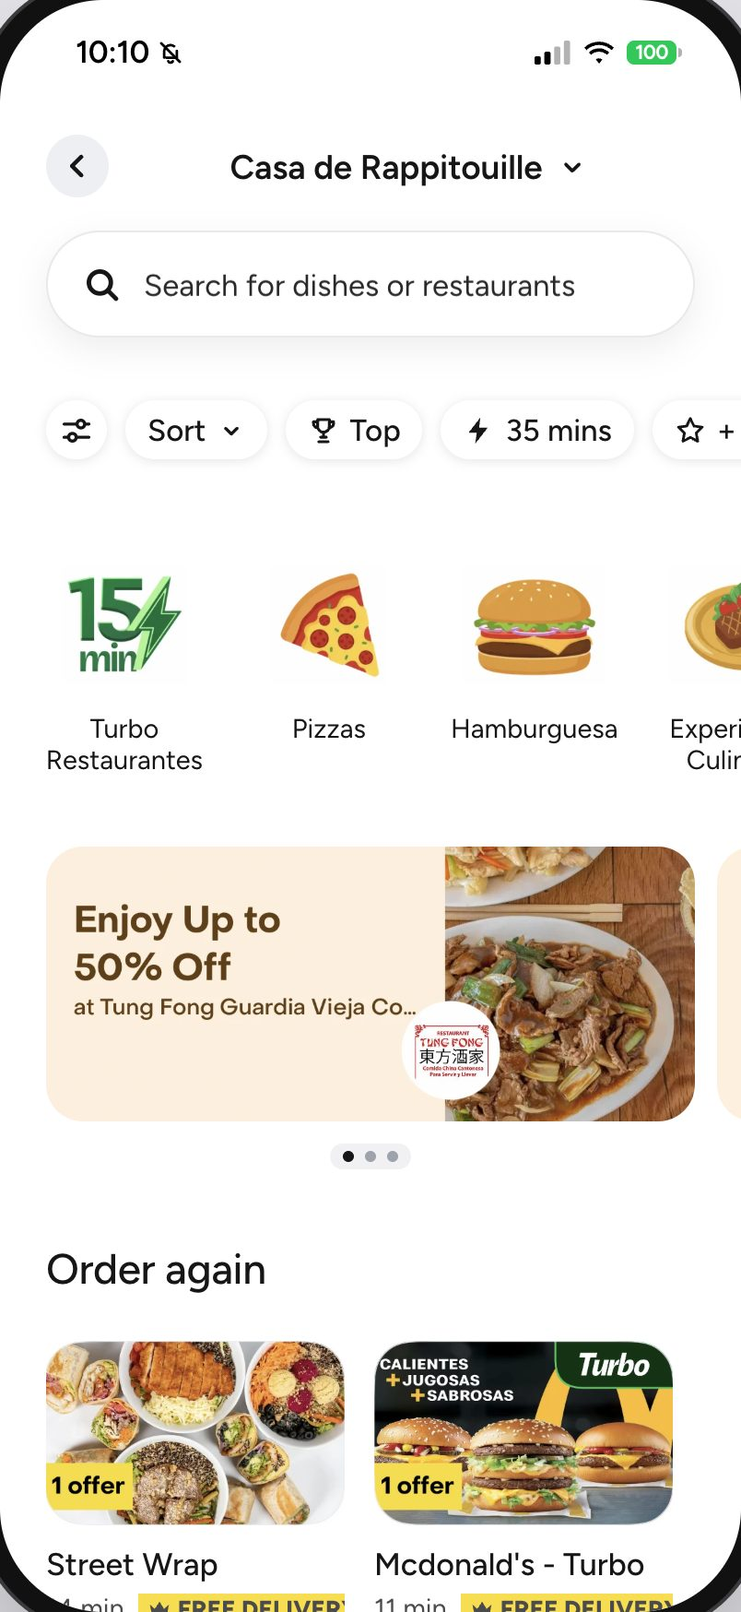
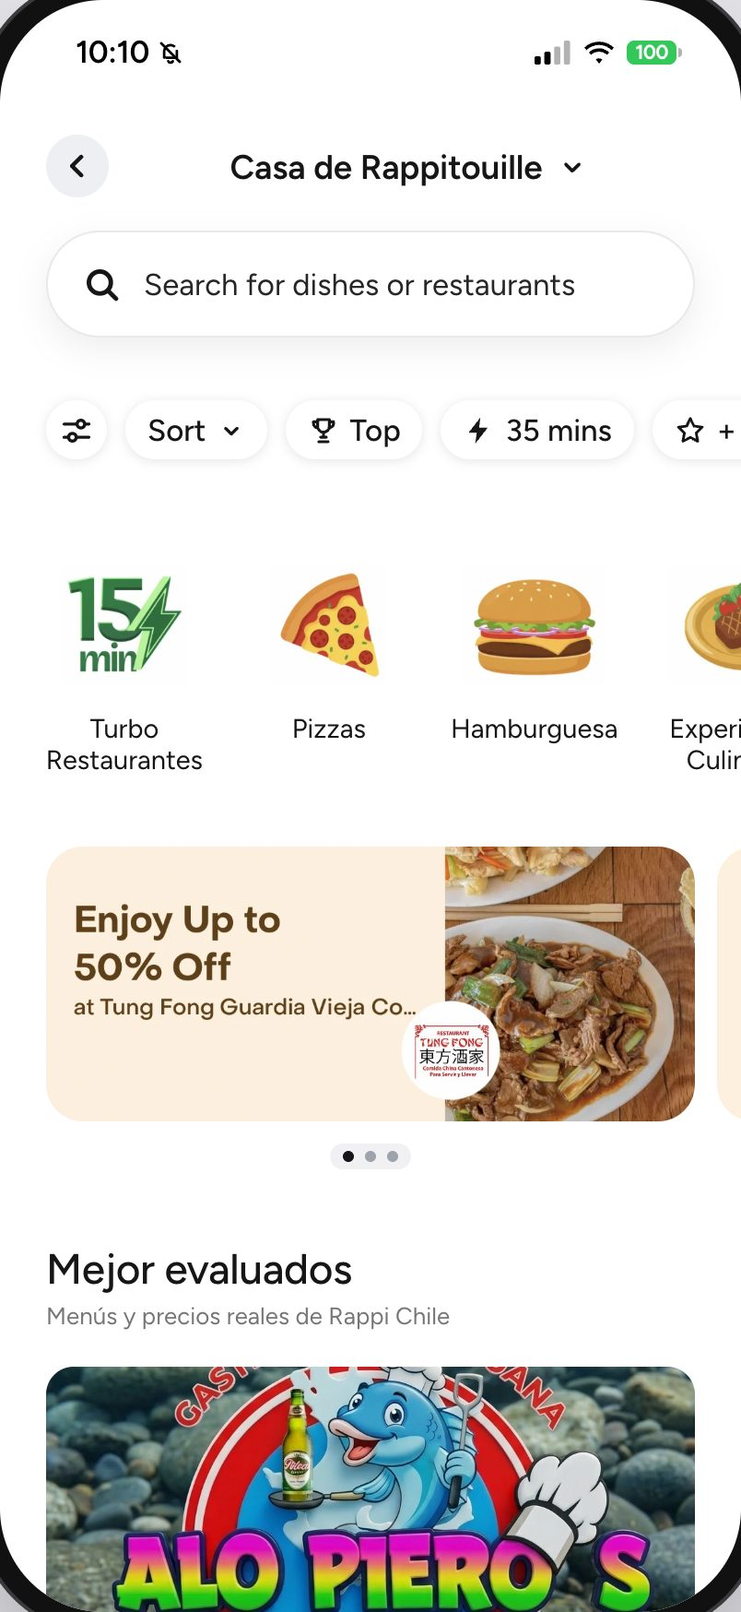
docs: el catálogo real llega a las pantallas
- mvp-check suma la compra: Home → Grocery → primera tienda → agregar → carrito → pagar, y comprueba en rappi_ia_test (solo lectura) que haya un pedido `prototype` con productos sembrados. Termina con «MVP check: 3 de 3 bien».
- screenshots.mjs espera a que lleguen tiendas, productos y restaurantes antes de capturar y compra un producto de las bajas de precio reales (con +18 si hay).
- Capturas regeneradas solo donde cambiaron (Restaurants, Turbo, Deals, Favorites, Grocery, Liquor, checkout, seguimiento y entregado).
- Docs: de dónde salen ahora las pantallas, el buscador local hasta la etapa 3, Mascotas fuera y la fila de decisiones del 10-10-2026; cuentas de tests al día (prototipo 575, rappi-ia 1002).

diff --git a/prototipo-app/README.md b/prototipo-app/README.md
@@ -8,7 +8,7 @@ Hecho con Vite + React 19. **Necesita la API de [`rappi-ia`](../rappi-ia/)**: si
 
 ![Modo demo: la misma app en el prototipo final y en «Rappi hoy»](docs/screenshots/00-modo-demo.jpg)
 
-*Salvo que se indique lo contrario, las capturas de este README son anteriores al MVP conectado: se tomaron en modo local (sin API) y sin los menús reales del scraper. `npm run screenshots` ahora necesita el MVP corriendo.*
+*Las capturas de Restaurants, Turbo, Deals, Favorites, Grocery, Liquor y de la compra (checkout, seguimiento y entregado) se tomaron el 10-10-2026 con el MVP corriendo y el catálogo real; las demás son anteriores al MVP conectado (modo local, sin API). `npm run screenshots` necesita el MVP corriendo y, como paga una compra, deja un pedido y sus eventos (`source = 'prototype'`) en la base.*
 
 ## Cómo correrlo
 
@@ -17,7 +17,7 @@ Requiere Node 22.22+ o 24.15+ (ver `.nvmrc` en la raíz). Como la app no abre si
 ```bash
 make mvp              # API :8000, app http://localhost:5174 y panel :5175; Ctrl-C detiene los tres
 make mvp LAN=1        # abre la API y la app a la red local, para el iPhone (misma red wifi o su hotspot)
-make mvp-check        # recorre la app con Chrome contra un catálogo de prueba inventado, sin tocar la base real
+make mvp-check        # recorre la app con Chrome (Home, una compra en el Súper de prueba, API caída) contra un catálogo inventado, sin tocar la base real
 ```
 
 Requisitos y qué hacer si falla algo: [docs/instalacion.md](../docs/instalacion.md#5-el-mvp). Para correr solo la app, con la API ya levantada por su cuenta (`cd rappi-ia && make serve`):
@@ -35,6 +35,7 @@ En el iPhone, desde Safari: **Compartir → Agregar a pantalla de inicio**. Se a
 
 La API (puerto 8000) carga los modelos antes de aceptar peticiones: `make mvp` espera a que responda y, si la app se abrió antes, «Reintentar» vuelve a probar. Con ella, Mochi:
 
+- da las **pantallas de catálogo** (ver «De dónde salen las pantallas»);
 - busca en el **catálogo real** con búsqueda híbrida por vertical, con precios vigentes;
 - sugiere un complemento **de otra tienda** en un bloque aparte;
 - arma la fila **"Para ti"** del inicio con lo que aprendió de ti (productos reales de otro vertical, con aviso +18 si corresponde);
@@ -60,7 +61,7 @@ Si la API se cae con la app ya abierta, las respuestas de Mochi todavía caen a 
 | `npm run screenshots` | Regenera las capturas de este README; necesita el MVP corriendo (`make mvp`) y usa el Chrome instalado |
 | `./scripts/make-icons.sh` | Regenera los íconos de pantalla de inicio desde `scripts/icon.svg` |
 
-Tests: 452 (Vitest, 10-10-2026). CI en GitHub Actions: lint, tests y build.
+Tests: 575 (Vitest, 10-10-2026). CI en GitHub Actions: lint, tests y build.
 
 **Accesibilidad:** el buscador con Mochi y las hojas inferiores se usan con teclado y VoiceOver (el foco entra al abrir, Escape cierra, Tab no se sale y el foco vuelve al cerrar), cada respuesta de Mochi se anuncia completa al lector de pantalla y las áreas táctiles miden al menos 40 px.
 
@@ -145,8 +146,8 @@ También:
 
 - **Hoja de producto:** al tocar un producto se abre una hoja con la cantidad, notas para la tienda y el total, y desde ahí se puede ir a la tienda.
 - **Mis pedidos** (en Account): cada pedido hecho en el prototipo abre su seguimiento, en curso o entregado; el carro, los favoritos, la dirección y Loyalty se guardan en el navegador y sobreviven a una recarga.
-- **Turbo** con productos y categorías (Frescos, Despensa, Picoteo) que se agregan al carro, además de las pestañas Favorites, Offers y Categories.
-- **Menús reales** de los restaurantes, con pestañas por sección: salen de la API (`/catalog`), el catálogo que descarga el scraper.
+- **Turbo** con los pasillos de su tienda con más productos vigentes (pestañas arriba y en Categories), con sus productos y «Ver más», que se agregan al carro, además de las pestañas Favorites y Offers.
+- **Menús reales** de los restaurantes, con pestañas por sección: salen de la API (`/catalog`), el catálogo que descarga el scraper. La portada es la foto de un plato popular: la base no guarda los logos de los restaurantes.
 - **Loyalty**, con un programa de fidelización vinculable.
 - **Si algo falla:** una pantalla con error muestra «Algo salió mal» y «Volver al inicio» sin cerrar la app, y una imagen que no carga muestra un respaldo neutro.
 
@@ -156,7 +157,7 @@ También:
 
 ## Pantallas replicadas de Rappi
 
-Calcadas de las capturas del iPhone, en modo "Rappi hoy" (sin agregados de la propuesta).
+Calcadas de las capturas del iPhone, en modo "Rappi hoy" (sin agregados de la propuesta). El diseño es de las capturas; las tiendas, los productos y los precios son del catálogo real (ver «De dónde salen las pantallas»).
 
 | Restaurants | Turbo | Deals | Favorites |
 |:---:|:---:|:---:|:---:|
@@ -166,21 +167,40 @@ Calcadas de las capturas del iPhone, en modo "Rappi hoy" (sin agregados de la pr
 |:---:|:---:|:---:|:---:|
 | <img src="docs/screenshots/14-account.jpg" width="190" alt="Account"> | <img src="docs/screenshots/15-grocery.jpg" width="190" alt="Grocery"> | <img src="docs/screenshots/16-liquor.jpg" width="190" alt="Liquor"> | <img src="docs/screenshots/17-rappitravel.jpg" width="190" alt="RappiTravel"> |
 
-Además: Pharmacy, Retail, Express, Pet, Chocolates, Loyalty, buscador, página de tienda y carrito.
+Además: Pharmacy, Retail, Express, Chocolates, Loyalty, buscador, página de tienda y carrito. Pet (Mascotas) salió: la base no tiene esa vertical.
+
+## De dónde salen las pantallas
+
+Las pantallas de catálogo leen la API (`/catalog`, `src/api/catalog.js`) y la app solo pone el diseño:
+
+| Pantalla | Qué viene de la API |
+|---|---|
+| Verticales (Grocery, Pharmacy, Retail, Liquor, Express, Chocolates) | Las tiendas (una tarjeta por formato) y «Bajaron de precio» |
+| Tienda | Sus pasillos, de a una página de productos (24, con «Ver más») y el precio vigente de cada uno |
+| Restaurante | Su menú con precios; la portada es la foto de un plato popular |
+| Turbo | Los pasillos de la tienda Turbo con más productos vigentes y sus productos |
+| Deals (Offers) | «Bajaron de precio» por vertical (se excluyen las bajas de más de 60 %: en la base real eran graneles, precio por kilo contra precio por unidad) y «Mejor evaluados» |
+| Favorites y Home | «Los mejores» y las listas de la Home (restaurantes rápidos, «Cerca de ti», «Mejor evaluados») |
+
+- **Un producto muestra el precio y la tienda de su oferta vigente más barata entre las tiendas que se pueden abrir**, para que el precio y la tienda nunca se contradigan. Si ninguna tienda abrible lo vende, no ofrece «Ver tienda».
+- **Sin «Envío más barato»:** el costo de envío es $0 en el 91 % de la base, casi seguro «sin dato», así que la Home y Deals muestran «Mejor evaluados» y un envío de $0 no se presenta como gratis.
+- **Si la API falla** en una pantalla, esa pantalla muestra «Sin conexión» con «Reintentar» y el resto de la app sigue usable; una tienda que no está en la base muestra «Esta tienda no está en el catálogo».
+- **Sigue local hasta la etapa 3:** el buscador y el cerebro local de Mochi (`src/data/catalog.js`, con los datos transcritos de las capturas). Lo que abren y no está en la base muestra «Esta tienda no está en el catálogo».
 
 ## Qué es real y qué es simulado
 
-- **Real:** las pantallas (recortes de las capturas), los precios y productos que se ven en ellas, los menús del scraper (si se exportan), el carrito, los pedidos y el historial del navegador.
+- **Real:** las tiendas, productos, precios, menús y ofertas que muestran las pantallas (vienen de la API, que lee la base que descarga el scraper), el carrito, los pedidos y el historial del navegador.
   - **De la API** vienen también la búsqueda y los productos y precios que muestra Mochi.
+- **De las capturas:** el diseño (títulos, filas de categorías, banners, íconos). No son catálogo: no apuntan a ninguna tienda ni producto.
 - **Simulado:** el pago y el seguimiento (el pedido «llega» a los 20 s), y el progreso del juego (solo en el navegador).
 - **Privacidad:** el id de usuario es seudónimo (`proto-…`, guardado en este navegador). El carro, los favoritos, la dirección, Loyalty y los pedidos también se guardan solo en este navegador. "Olvidar" borra lo aprendido también en la API. En modo "Rappi hoy" no se aprende.
-- **Supuestos:** textos cortados en el borde de las capturas, algunos ratings y tiempos de entrega; están marcados como "supuesto" en los archivos `data.js`.
+- **Supuestos:** textos cortados en el borde de las capturas, marcados como "supuesto" en los archivos `data.js`. Lo que la API no sabe (tiempo de entrega de un producto, nota, costo de envío: un $0 es un dato que falta, no «envío gratis») no se muestra.
 
 ## Estructura
 
 ```text
 src/
-├── api/            Cliente de la API de rappi-ia (chat, "Para ti", pedidos, eventos), con tiempo límite y errores tipados; fixtures/ guarda las respuestas de ejemplo que escribe el backend (`make contract` en rappi-ia)
+├── api/            Cliente de la API de rappi-ia (catálogo, chat, "Para ti", pedidos, eventos), con tiempo límite y errores tipados; fixtures/ guarda las respuestas de ejemplo que escribe el backend (`make contract` en rappi-ia)
 ├── assistant/      Mochi local: temas, respuestas y recomendaciones (lógica pura, con tests)
 ├── assets/         Recortes de las capturas
 ├── game/           Lógica del juego de verticales: tarjetas de conocimiento, desafíos, XP, niveles, pasaporte (lógica pura, con tests)
@@ -192,5 +212,5 @@ src/
 └── styles/         Tokens de diseño y estilos globales
 docs/screenshots/   Capturas de este README
 public/             Íconos y manifiesto para "Agregar a pantalla de inicio"
-scripts/            Íconos, capturas y el recorrido de `make mvp-check`
+scripts/            Íconos, capturas y el recorrido de `make mvp-check` (Home, compra y API caída)
 ```

diff --git a/README.md b/README.md
@@ -53,7 +53,7 @@ El efecto real (frecuencia, venta cruzada, verticales nuevas por persona) solo s
 2. **Postgres + pgvector.** El catálogo (capa 1) y `search_documents`, una partición por vertical.
 3. **IA offline.** Cada producto y plato recibe un concepto (capa 2), y los conceptos se enlazan con sus complementos. Una capa de datos suma atributos, medidas, marcas, un grafo de conocimiento y segmentos, y los expone en el esquema `capa` ([docs/capa-de-datos.md](docs/capa-de-datos.md)). Cada documento recibe un embedding de un modelo local multilingüe (e5), con un índice vectorial por vertical.
 4. **Consulta.** Búsqueda híbrida dentro de la vertical: por palabras y por significado, combinadas por posición (RRF) y reforzadas por el concepto pedido. Mochi arma la respuesta y la sugerencia cruzada.
-5. **Prototipo.** La API (FastAPI, puerto 8000) atiende al prototipo (5174). El prototipo no abre sin la API: muestra «Sin conexión con Mochi» (se levantan juntos con `make mvp`).
+5. **Prototipo.** La API (FastAPI, puerto 8000) atiende al prototipo (5174). El prototipo no abre sin la API: muestra «Sin conexión con Mochi» (se levantan juntos con `make mvp`). Las verticales, las tiendas con sus pasillos, los restaurantes con su menú, Turbo, Ofertas, Favoritos y la Home leen el catálogo real de la API (`/catalog`); el buscador y el cerebro local de Mochi siguen con datos locales hasta la etapa 3 del MVP.
 
 **Mochi** en la API conversa por texto, voz (Whisper) o foto (CLIP); el prototipo usa solo el texto, como buscador. Reconoce servicios sin catálogo (un viaje lleva a **RappiTravel**, un envío o trámite a **RappiFavor**). Sin clave de API responde con plantillas; con clave, Claude solo redacta sobre lo que el código ya recuperó y verificó. Diseño completo: [docs/diseno-ia.md](docs/diseno-ia.md).
 
@@ -82,7 +82,7 @@ Cada cifra dice qué tipo de dato es: real, evaluación automática, estimación
 | Capa de datos | Atributos, marcas y grafo | 83 atributos sobre 79.617 ítems · 6.359 marcas · 23.534 productos canónicos · 32.105 aristas en 12 relaciones | Real, con reglas propias; atributos 92 % y marcas 97 a 99 % de precisión estimada | `make layers`, 06-10-2026 |
 | Búsqueda | nDCG@10 | híbrido 0,917 · sin refuerzo por concepto 0,860 · vectorial 0,849 · léxico 0,776 | Evaluación automática | [reporte del 06-10](docs/resultados/busqueda-2026-10-06.md) |
 | Búsqueda | «Sin resultado» | precisión 1,00 (0 falsas alarmas) · recall 0,71 (29 de 41) | Evaluación automática | [reporte del 30-09](docs/resultados/busqueda-2026-09-30.md) |
-| Calidad | Tests | scraper 144 · rappi-ia 897 · prototipo 359 · panel 90 | Verificación local y CI | `make test` · `npm test` |
+| Calidad | Tests | scraper 144 · rappi-ia 1002 · prototipo 575 · panel 90 | Verificación local y CI | `make test` · `npm test` |
 
 ### Catálogo por vertical
 
@@ -127,7 +127,7 @@ Requisitos (el detalle, en [docs/instalacion.md](docs/instalacion.md)):
 ```bash
 make mvp          # desde la raíz del repositorio; Ctrl-C detiene los tres
 make mvp LAN=1    # abre la API y la app a la red local, para el iPhone (solo en una red de confianza)
-make mvp-check    # recorre la app con Chrome contra un catálogo de prueba inventado, sin tocar la base real
+make mvp-check    # recorre la app con Chrome (la Home, una compra en el Súper de prueba y la caída de la API) contra un catálogo inventado, sin tocar la base real
 ```
 
 `make mvp` revisa las dependencias, los puertos y la base (`rappi-ia doctor`, solo lectura), aplica las migraciones pendientes (no las de una rama sin fusionar: `MIGRATE=1` lo fuerza, ver [docs/instalacion.md](docs/instalacion.md#5-el-mvp)), arranca los tres con sus registros prefijados y avisa cuando responden. La API tarda en estar lista porque carga los modelos. No descarga nada de rappi.cl.
@@ -140,13 +140,14 @@ La API lee la base `rappi`, que se restaura desde un respaldo (o se descarga) y 
 
 ## Qué es real y qué es simulado
 
-- **Real:** el catálogo, los precios y los menús (de rappi.cl), los conceptos, la capa de datos, la búsqueda y las respuestas de Mochi con la API. Las pantallas del prototipo son recortes de capturas de la app.
+- **Real:** el catálogo, los precios y los menús (de rappi.cl), los conceptos, la capa de datos, la búsqueda y las respuestas de Mochi con la API. Las tiendas, productos, precios, menús y ofertas que muestran las pantallas del prototipo salen de la API; su diseño (títulos, categorías, banners) sigue siendo de recortes de capturas de la app. Lo que la API no sabe (tiempo de entrega, nota, costo de envío) no se muestra.
 - **Simulado:** el pago, el seguimiento del pedido (llega a los 20 s), los usuarios y eventos para segmentos y métricas, y el progreso del juego.
 - **Uso responsable:** solo páginas públicas sin barreras técnicas, sin APIs internas ni inicio de sesión, una descarga a la vez con pausas de 1,5 a 3 s y una actualización por semana. Sin datos personales: los usuarios son simulados o del prototipo (id seudónimo). Los datos descargados no se publican ni están en el repositorio. Fines de investigación y demostración; un uso comercial requeriría autorización de Rappi.
 
 ## Límites
 
-- **Cobertura parcial en tiendas:** hasta 24 productos por sub-pasillo y una sucursal por marca o formato.
+- **Cobertura parcial en tiendas:** hasta 24 productos por sub-pasillo y una sucursal por marca o formato. No se listan las tiendas sin ofertas vigentes en un pasillo de primer nivel, ni Mascotas (la base no tiene esa vertical).
+- **Buscador local hasta la etapa 3:** el buscador del prototipo y los bloques de Mochi en la Home (kit, «Descubre») aún usan datos locales; lo que abren y no está en la base muestra «Esta tienda no está en el catálogo».
 - **Turbo sin actualizar:** sus tiendas ya no aparecen como Turbo en los listados públicos que recorre el scraper; sus precios son del 27-09.
 - **Evaluación automática:** no hay juicio humano, y el refuerzo por concepto favorece al híbrido.
 - **«Sin resultado»:** detecta 29 de 41 negativas; el reporte explica las demás.

diff --git a/docs/decisiones.md b/docs/decisiones.md
@@ -141,6 +141,7 @@
 | 10-10-2026 | El **juego enseña el mundo de cada vertical**: 108 tarjetas (6 datos «¿Sabías que…?» y 6 preguntas por vertical), cada una con su fuente y verificada contra ella; la ronda trae 2 datos, 2 preguntas y 1 desafío del catálogo. Los niveles cuentan tarjetas; salen los conceptos y los datos del catálogo del álbum (se conservan sellos, XP y racha). **Viajes** es el sello 9 (sin catálogo: rondas solo de conocimiento). | Las cifras del catálogo («Súper tiene 4.000 productos») no enseñan nada de la vertical; un dato curioso con fuente sí, y da un motivo para volver. 77 de las 108 fuentes son Wikipedia (otras bloquearon la lectura): mínimo aceptable, mejorable. Ver la [especificación](superpowers/specs/2026-10-09-juego-por-vertical-design.md) y el [informe de verificación](resultados/juego-verificacion-2026-10-09.md). |
 | 10-10-2026 | El **MVP exige la API**: sin ella la app muestra «Sin conexión con Mochi» con «Reintentar», sin reglas locales que contesten. Se levanta todo con `make mvp` (API :8000, app :5174, panel :5175) y `make mvp-check` lo recorre con Chrome contra un catálogo de prueba inventado (`rappi-ia seed-demo`, que solo siembra bases `_test`). Las reglas locales salen por etapas: el catálogo transcrito en la 2, el cerebro de Mochi en la 3 y el contenido y los desafíos del juego en la 4; hasta entonces siguen en el código, pero la app no abre sin la API. El **HTML suelto del escritorio deja de ser la demo**: para mostrar el MVP hay que correr `make mvp`. | Lo que se ve, lo que Mochi ofrece y lo que se pide tiene que salir de una sola fuente, la base, y lo que la persona hace tiene que volver a ella; con un respaldo local la demo funcionaría aunque la API estuviera caída y mostraría un catálogo distinto del real. Las reglas se van por etapas, con sus tests, para no romper el prototipo de una sola vez. Ver la [especificación](superpowers/specs/2026-10-10-mvp-integrado-design.md). |
 | 10-10-2026 | **`make mvp`, `make serve` y `make serve-lan` no migran la base real desde una rama sin fusionar**: con migraciones pendientes en `rappi` y un código que no está en `origin/main`, `rappi-ia check-migrations` se niega, las lista y propone probar en una copia (`createdb -T rappi rappi_staging`) o forzar con `MIGRATE=1`. Con otra base o sin pendientes migra sin preguntar. | `migrate` registra por nombre de archivo: una migración de rama que se aplica y después se edita nunca se vuelve a aplicar, y la base real queda con un esquema distinto del código sin que nada avise. |
+| 10-10-2026 | Las **pantallas de catálogo leen la base** (etapa 2 del MVP): las verticales, las tiendas con sus pasillos, los restaurantes con su menú, Turbo, Ofertas, Favoritos y las listas de la Home salen de la API (`/catalog`) y ya no de datos transcritos de capturas; de las capturas queda el diseño (títulos, categorías, banners). Cuatro reglas visibles: **(1)** un producto muestra el precio y la tienda de su oferta vigente más barata entre las tiendas que se pueden abrir (si ninguna lo vende, no ofrece «Ver tienda»), y una tienda solo se lista y se abre si tiene ofertas vigentes en un pasillo de primer nivel; **(2)** las ofertas excluyen los descuentos de más de 60 % (en la base real eran graneles: precio por kilo contra precio por unidad; salen 95 de 15.680); **(3)** no hay «Envío más barato»: el costo de envío es $0 en el 91 % de la base real y casi seguro significa «sin dato», así que la Home y Ofertas muestran «Mejor evaluados» y un $0 no se presenta como «Envío gratis»; **(4)** Mascotas sale de los accesos y de las pantallas, porque la base no tiene esa vertical. El buscador y el cerebro local de Mochi siguen con datos locales hasta la etapa 3 (el catálogo transcrito se borra entonces, no en esta etapa); lo que abren y no está en la base muestra «Esta tienda no está en el catálogo». | Ninguna tienda ni producto que se pueda tocar puede ser falso, y precio y tienda no pueden contradecirse. Un descuento de −90 % en fruta a granel era un dato mal comparado, no una oferta, y el $0 de envío es un dato que falta: mostrarlos como rebaja o como envío gratis sería presentar un supuesto como evidencia. `/search` exige una vertical y la búsqueda en todas con «sin resultado» es parte de la etapa 3, así que el buscador no se puede conectar antes sin cambiar su comportamiento. `make mvp-check` ahora también compra en el Súper de prueba y comprueba que el pedido llegó a la base de prueba. Ver el [plan](superpowers/plans/2026-10-10-mvp-etapa-2-catalogo.md). |
 
 ## Datos simulados y panel
 

diff --git a/docs/instalacion.md b/docs/instalacion.md
@@ -112,9 +112,9 @@ Ctrl-C detiene los tres; si uno se cae solo, detiene el resto. No descarga nada 
 - ¿La API está en otro puerto o equipo? Crea `prototipo-app/.env.local` con `VITE_API_URL=http://localhost:8001` y reinicia la app.
 - ¿La API se cayó? Mira el registro `[api]`: con Postgres caído responde 503.
 
-**`make mvp-check`** recorre la app con Chrome (Playwright, usa el Google Chrome instalado) contra un catálogo de prueba **inventado**, sin tocar la base `rappi`. Siembra `rappi_ia_test` (`rappi-ia seed-demo`, que se niega con cualquier base que no termine en `_test`), levanta una API liviana en :8010 y la app en :5184, comprueba que la Home abre conectada y que, al detener la API, aparece «Sin conexión con Mochi». Termina con «MVP check: 2 de 2 bien» y no deja nada escuchando. **Borra y vuelve a sembrar `rappi_ia_test`:** no lo corras junto con `make test` de `rappi-ia/`, que usa la misma base.
+**`make mvp-check`** recorre la app con Chrome (Playwright, usa el Google Chrome instalado) contra un catálogo de prueba **inventado**, sin tocar la base `rappi`. Siembra `rappi_ia_test` (`rappi-ia seed-demo`, que se niega con cualquier base que no termine en `_test`), levanta una API liviana en :8010 y la app en :5184, comprueba que la Home abre conectada, que una compra (Home → Grocery → la primera tienda → agregar un producto → carrito → pagar) llega a la API y queda en `rappi_ia_test` como un pedido `prototype` con productos sembrados (solo lectura) y que, al detener la API, aparece «Sin conexión con Mochi». Termina con «MVP check: 3 de 3 bien» y no deja nada escuchando. **Borra y vuelve a sembrar `rappi_ia_test`:** no lo corras junto con `make test` de `rappi-ia/`, que usa la misma base.
 
-También: `make contract` en `rappi-ia/` reescribe las respuestas de ejemplo de la API que usa la app (`prototipo-app/src/api/fixtures/`; el CI falla si quedan desactualizadas), y `npm run screenshots` en `prototipo-app/` necesita el MVP corriendo.
+También: `make contract` en `rappi-ia/` reescribe las respuestas de ejemplo de la API que usa la app (`prototipo-app/src/api/fixtures/`; el CI falla si quedan desactualizadas), y `npm run screenshots` en `prototipo-app/` necesita el MVP corriendo y, como paga una compra, deja un pedido y sus eventos (`source = 'prototype'`) en la base real.
 
 ## 6. Actualización semanal
 

diff --git a/CLAUDE.md b/CLAUDE.md
@@ -15,7 +15,7 @@ Documentación: índice en [docs/README.md](docs/README.md) · cifras en [README
 - Las migraciones de la base (también las de conceptos, embeddings y eventos) viven en `rappi-scraper/src/rappi_scraper/storage/migrations/`: un solo historial. `make mvp`, `make serve` y `make serve-lan` se niegan a migrar la base `rappi` desde una rama sin fusionar (`rappi-ia check-migrations`; `MIGRATE=1` lo fuerza, o se prueba en una copia como `rappi_staging`).
 - `rappi-ia` carga su `.env` antes que el de `rappi-scraper` (ver `rappi_ia/__init__.py`); sus tests se niegan a borrar otra base que no sea `rappi_ia_test`.
 - Servidores de demo: `make mvp` en la raíz levanta los tres sobre la base `rappi` (`LAN=1` abre la API y la app a la red local, para el iPhone; el panel pide sus datos a `localhost:8000`, así que solo sirve en este equipo): API `:8000` (`make serve` en rappi-ia, solo local; `make serve-lan` la abre a la red y macOS pide permiso de red la primera vez), prototipo `:5174`, panel `:5175`. El prototipo busca la API en su mismo host; el panel usa `localhost:8000`. Ambos apuntan a otra API con `.env.local` (`VITE_API_URL`). El prototipo no abre sin la API («Sin conexión con Mochi»).
-- `make mvp-check` (raíz) siembra el catálogo de prueba inventado en `rappi_ia_test` (`rappi-ia seed-demo`, solo bases `_test`), levanta una API liviana en `:8010` y la app en `:5184`, y la recorre con Chrome. Borra `rappi_ia_test`: no correrlo junto con `make test` de rappi-ia.
+- `make mvp-check` (raíz) siembra el catálogo de prueba inventado en `rappi_ia_test` (`rappi-ia seed-demo`, solo bases `_test`), levanta una API liviana en `:8010` y la app en `:5184`, y la recorre con Chrome (la Home, una compra en el Súper de prueba con su pedido en la base y la caída de la API). Borra `rappi_ia_test`: no correrlo junto con `make test` de rappi-ia.
 - Contrato API-app: las respuestas de ejemplo de `prototipo-app/src/api/fixtures/` las escribe el backend (`make contract` en rappi-ia); el CI falla si quedan desactualizadas.
 - Datos de usuarios: solo `source = 'synthetic'` (generador con semilla) o `'prototype'`. Nunca presentar métricas simuladas como evidencia.
 - `build_search_documents` borra de `search_documents` todo lo que no regenera: los datos derivados (conceptos, caché de embeddings, imágenes) van en tablas propias.
